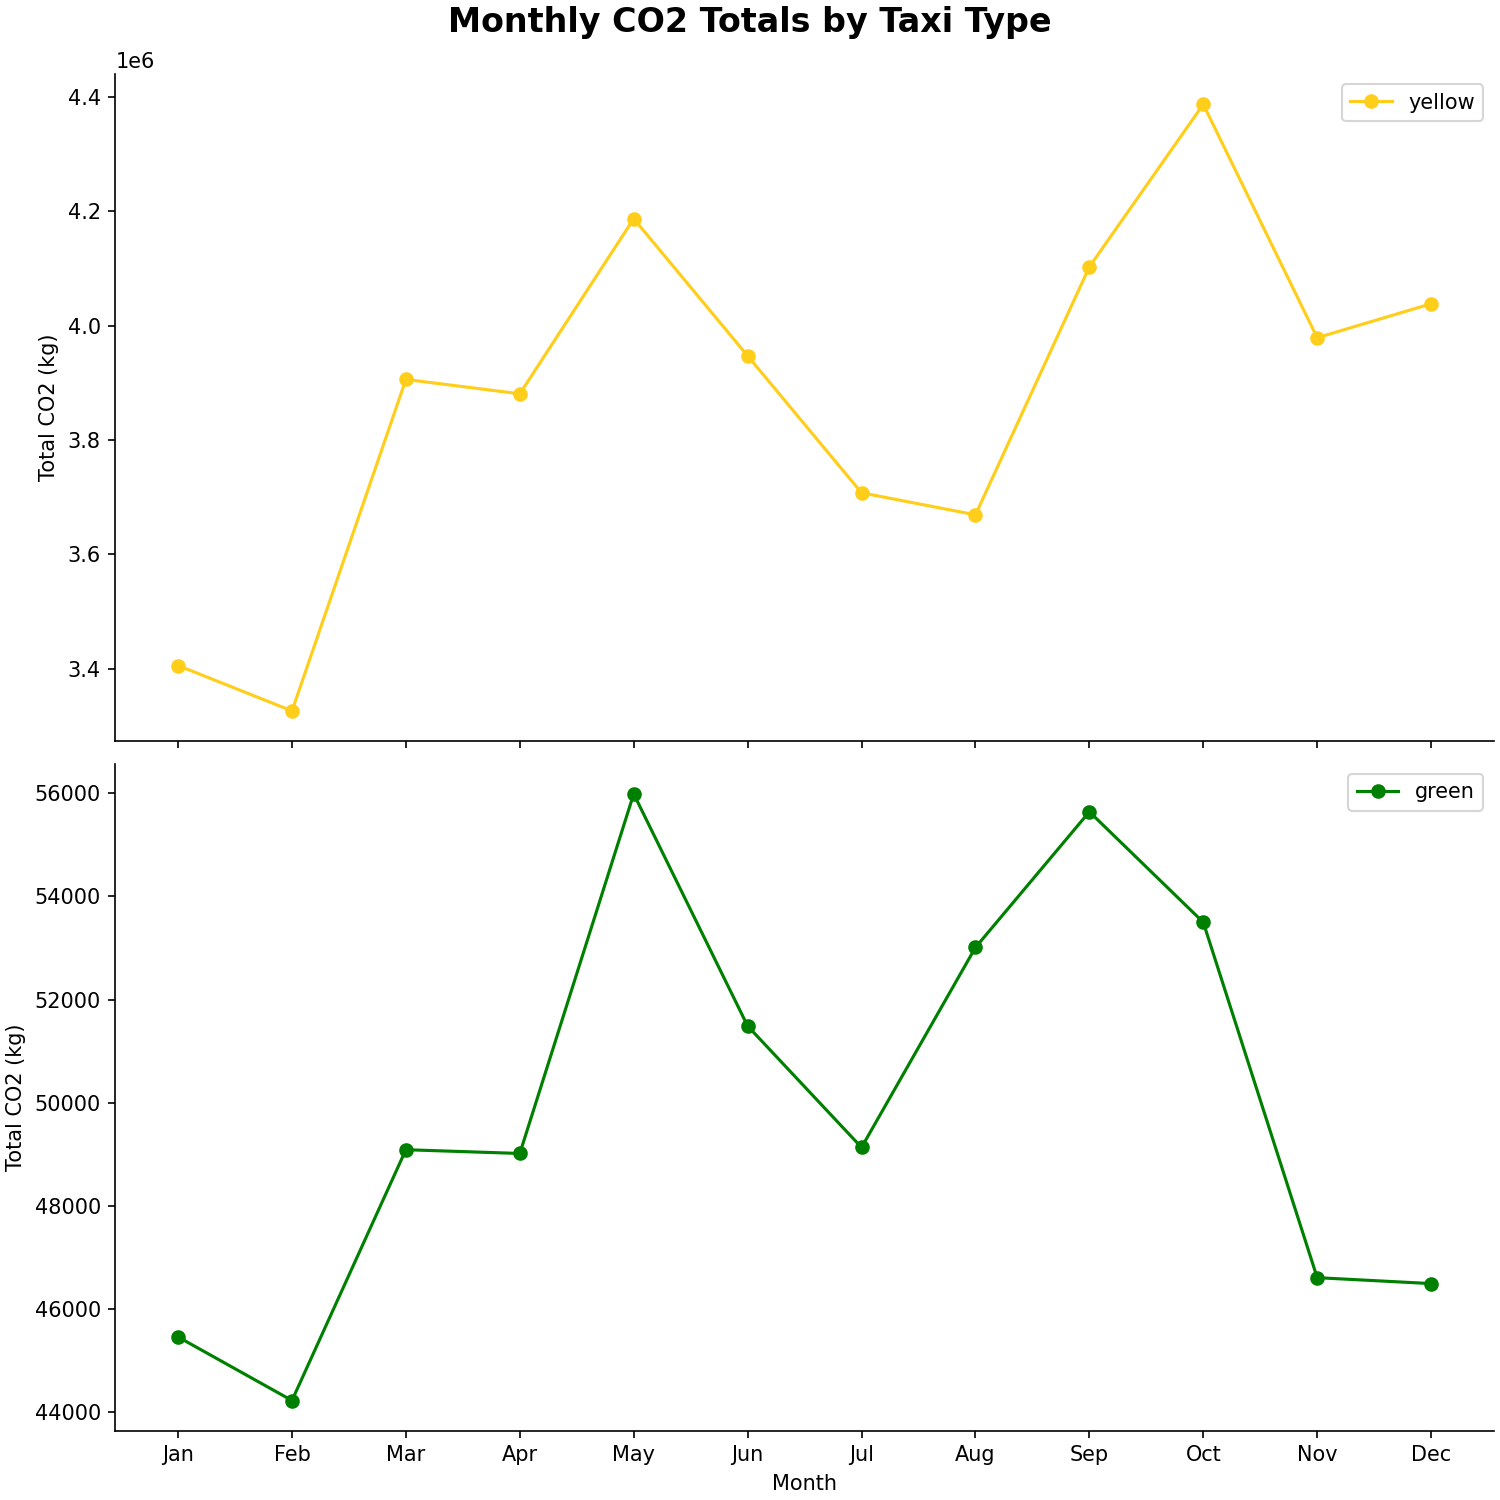
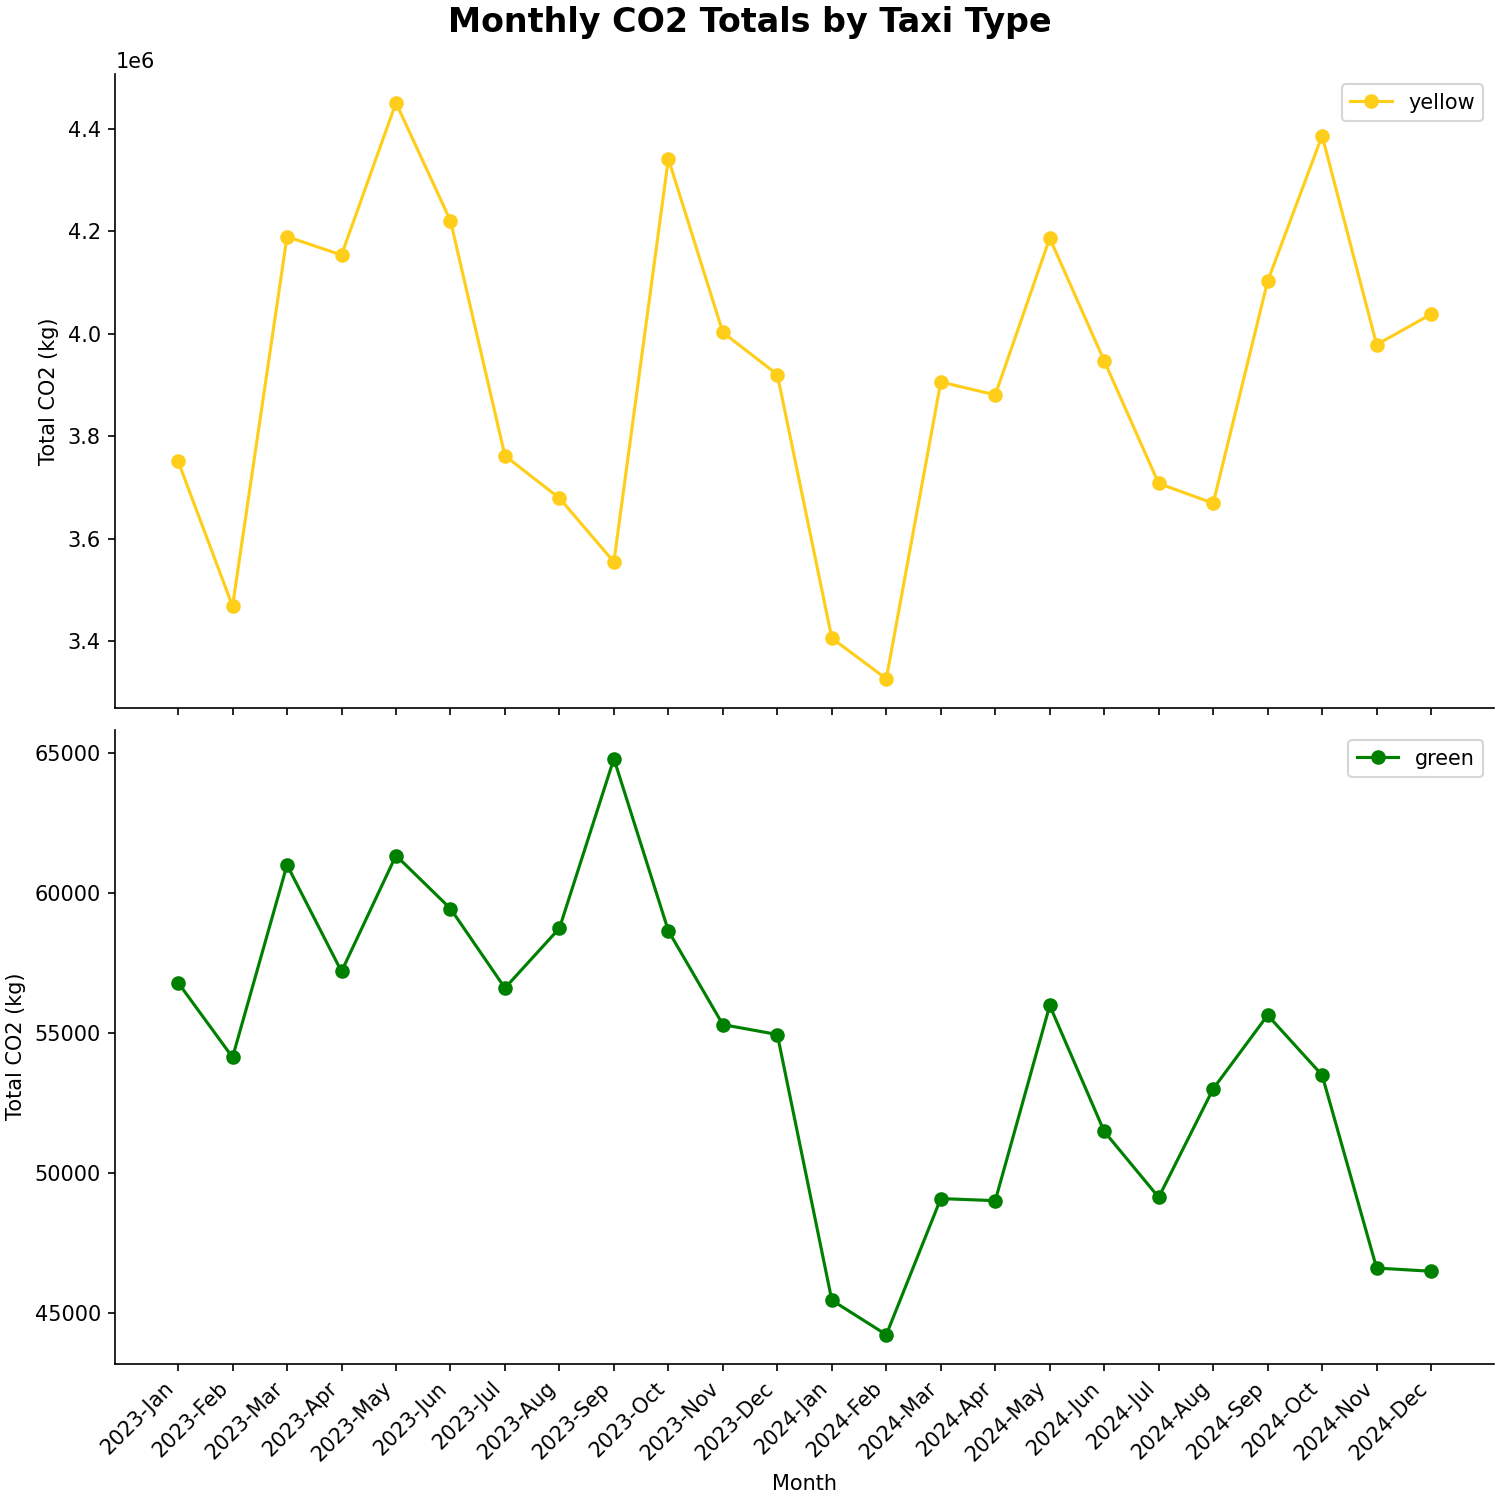
fixed analysis for all 2015-2024 and graph for 2023-2024

diff --git a/analysis.py b/analysis.py
@@ -314,6 +314,7 @@ def carbon_heavy_light_week (years=range(2024, 2025), db_path='./emissions.duckd
                 AND pickup_ts >= TIMESTAMP '{start_year}-01-01'
                 AND pickup_ts <  TIMESTAMP '{end_year}-01-01'
                 AND trip_co2_kgs IS NOT NULL
+                AND week_of_year BETWEEN 1 AND 52
             GROUP BY week_of_year
             ORDER BY week_of_year;
         """).fetchall()
@@ -327,6 +328,7 @@ def carbon_heavy_light_week (years=range(2024, 2025), db_path='./emissions.duckd
                 AND pickup_ts >= TIMESTAMP '{start_year}-01-01'
                 AND pickup_ts <  TIMESTAMP '{end_year}-01-01'
                 AND trip_co2_kgs IS NOT NULL
+                AND week_of_year BETWEEN 1 AND 52
             GROUP BY week_of_year
             ORDER BY week_of_year;
         """).fetchall()
@@ -475,7 +477,131 @@ def carbon_heavy_light_month (years=range(2024, 2025), db_path='./emissions.duck
 
 
 
-def plot_co2_month_by_co2totals(years=range(2024, 2025), db_path='./emissions2024.duckdb'):
+# def plot_co2_month_by_co2totals(years=range(2024, 2025), db_path='./emissions.duckdb'):
+#     con = None
+
+#     try:
+#         start_year = min(years)
+#         end_year = max(years) + 1
+#         con = duckdb.connect(database=db_path, read_only=True)
+#         logger.info(f"Connected to DuckDB for heavy and light carbon months: years={list(years)}")
+
+#         month_totalco2_yellow = con.execute(f"""
+#             SELECT
+#                 trip_year AS yr,
+#                 month_of_year AS mo,
+#                 SUM(trip_co2_kgs) AS total_co2_kgs
+#             FROM data_transformation
+#             WHERE vehicle_type = 'yellow_taxi'
+#                 AND pickup_ts >= TIMESTAMP '{start_year}-01-01'
+#                 AND pickup_ts <  TIMESTAMP '{end_year}-01-01'
+#                 AND trip_co2_kgs IS NOT NULL
+#             GROUP BY yr, mo
+#             ORDER BY yr, mo;
+#         """).fetchall()
+
+#         month_totalco2_green = con.execute(f"""
+#             SELECT
+#                 trip_year AS yr,
+#                 month_of_year AS mo,
+#                 SUM(trip_co2_kgs) AS total_co2_kgs
+#             FROM data_transformation
+#             WHERE vehicle_type = 'green_taxi'
+#                 AND pickup_ts >= TIMESTAMP '{start_year}-01-01'
+#                 AND pickup_ts <  TIMESTAMP '{end_year}-01-01'
+#                 AND trip_co2_kgs IS NOT NULL
+#             GROUP BY yr, mo
+#             ORDER BY yr, mo;
+#         """).fetchall()
+
+
+#         # plotting yellow        
+#         fig, (ax1, ax2) = plt.subplots(2, 1, figsize=(10, 10), dpi=150, sharex=True, constrained_layout=True)
+
+#         month_list_yellow = []
+#         co2_total_list_yellow = []
+#         for each in month_totalco2_yellow:
+#             mo = each[0]
+#             co2 = float(each[1])
+#             month_list_yellow.append(mo)
+#             co2_total_list_yellow.append(co2)
+
+#         months = np.arange(1, 13)
+#         map_yellow= {}
+#         for month in months:
+#             map_yellow[int(month)] = 0.0
+
+#         for i in range(len(month_list_yellow)):
+#             month = int(month_list_yellow[i])
+#             co2 = float(co2_total_list_yellow[i])
+#             map_yellow[month] = co2
+
+#         month_list_yellow = list(months)
+#         co2_total_list_yellow = [map_yellow[m] for m in months]
+
+#         ax1.plot(month_list_yellow, co2_total_list_yellow, marker = 'o', color='#FFCE1B', label='yellow')
+
+#         ax1.spines['top'].set_visible(False)
+#         ax1.spines['right'].set_visible(False)
+#         labels = ['Jan','Feb','Mar','Apr','May','Jun','Jul','Aug','Sep','Oct','Nov','Dec']
+#         # ax1.xlim(1, 12)
+#         ax1.set_xticks(months, labels)
+#         # ax1.set_xlabel('Month')
+#         ax1.set_ylabel('Total CO2 (kg)')
+#         ax1.legend()
+
+
+#         # plotting green
+#         plt.figure(figsize=(10,6), dpi=150)
+        
+#         month_list_green = []
+#         co2_total_list_green = []
+#         for each in month_totalco2_green:
+#             mo = each[0]
+#             co2 = float(each[1])
+#             month_list_green.append(mo)
+#             co2_total_list_green.append(co2)
+
+#         months = np.arange(1, 13)
+#         map_green = {}
+#         for month in months:
+#             map_green[int(month)] = 0.0
+
+#         for i in range(len(month_list_green)):
+#             month = int(month_list_green[i])
+#             co2 = float(co2_total_list_green[i])
+#             map_green[month] = co2
+
+#         month_list_green = list(months)
+#         co2_total_list_green = [map_green[m] for m in months]
+
+#         ax2.plot(month_list_green, co2_total_list_green, marker = 'o', color='#008000', label='green')
+
+#         ax2.spines['top'].set_visible(False)
+#         ax2.spines['right'].set_visible(False)
+#         labels = ['Jan','Feb','Mar','Apr','May','Jun','Jul','Aug','Sep','Oct','Nov','Dec']
+#         # ax2.xlim(1, 12)
+#         ax2.set_xticks(months, labels)
+#         ax2.set_xlabel('Month')
+#         ax2.set_ylabel('Total CO2 (kg)')
+#         ax2.legend()
+
+#         fig.suptitle('Monthly CO2 Totals by Taxi Type', fontsize=16, fontweight='bold')
+#         fig.savefig('./month_co2totals_yellow_green.png', dpi=150)
+#         plt.close(fig)
+
+#     except Exception as e:
+#         print(f"Unable to plot the months and co2 totals={list(years)}: {e}")
+#         logger.error(f"Unable to plot the months and co2 totals={list(years)}: {e}")
+#         return None
+
+#     finally:
+#         if con:
+#             con.close()
+
+
+
+def plot_co2_month_by_co2totals(years=range(2024, 2025), db_path='./emissions.duckdb'):
     con = None
 
     try:
@@ -486,98 +612,72 @@ def plot_co2_month_by_co2totals(years=range(2024, 2025), db_path='./emissions202
 
         month_totalco2_yellow = con.execute(f"""
             SELECT
-                month_of_year AS month,
+                trip_year AS yr,
+                month_of_year AS mo,
                 SUM(trip_co2_kgs) AS total_co2_kgs
             FROM data_transformation
             WHERE vehicle_type = 'yellow_taxi'
                 AND pickup_ts >= TIMESTAMP '{start_year}-01-01'
                 AND pickup_ts <  TIMESTAMP '{end_year}-01-01'
                 AND trip_co2_kgs IS NOT NULL
-            GROUP BY month_of_year
-            ORDER BY month_of_year;
+            GROUP BY yr, mo
+            ORDER BY yr, mo;
         """).fetchall()
 
         month_totalco2_green = con.execute(f"""
             SELECT
-                month_of_year AS month,
+                trip_year AS yr,
+                month_of_year AS mo,
                 SUM(trip_co2_kgs) AS total_co2_kgs
             FROM data_transformation
             WHERE vehicle_type = 'green_taxi'
                 AND pickup_ts >= TIMESTAMP '{start_year}-01-01'
                 AND pickup_ts <  TIMESTAMP '{end_year}-01-01'
                 AND trip_co2_kgs IS NOT NULL
-            GROUP BY month_of_year
-            ORDER BY month_of_year;
+            GROUP BY yr, mo
+            ORDER BY yr, mo;
         """).fetchall()
 
 
         # plotting yellow        
         fig, (ax1, ax2) = plt.subplots(2, 1, figsize=(10, 10), dpi=150, sharex=True, constrained_layout=True)
 
-        month_list_yellow = []
-        co2_total_list_yellow = []
-        for each in month_totalco2_yellow:
-            mo = each[0]
-            co2 = float(each[1])
-            month_list_yellow.append(mo)
-            co2_total_list_yellow.append(co2)
+        years_list = list(range(start_year, end_year))                    # NEW
+        grid = [(yr, mo) for yr in years_list for mo in range(1, 13)]    # NEW
+        abbr = ['Jan','Feb','Mar','Apr','May','Jun','Jul','Aug','Sep','Oct','Nov','Dec']  # NEW
+        x_labels = [f"{yr}-{abbr[mo-1]}" for (yr, mo) in grid]            # NEW
+        x_pos = list(range(len(grid)))                                    # NEW
 
-        months = np.arange(1, 13)
-        map_yellow= {}
-        for month in months:
-            map_yellow[int(month)] = 0.0
+        # === CHANGED: map query rows to the grid (fill 0 for missing months) ===
+        y_dict = {(int(yr), int(mo)): float(val) for (yr, mo, val) in month_totalco2_yellow}  # CHANGED
+        y_series = [y_dict.get(key, 0.0) for key in grid]                                       # CHANGED
 
-        for i in range(len(month_list_yellow)):
-            month = int(month_list_yellow[i])
-            co2 = float(co2_total_list_yellow[i])
-            map_yellow[month] = co2
-
-        month_list_yellow = list(months)
-        co2_total_list_yellow = [map_yellow[m] for m in months]
-
-        ax1.plot(month_list_yellow, co2_total_list_yellow, marker = 'o', color='#FFCE1B', label='yellow')
+        ax1.plot(x_pos, y_series, marker='o', color='#FFCE1B', label='yellow')  # CHANGED
 
         ax1.spines['top'].set_visible(False)
         ax1.spines['right'].set_visible(False)
-        labels = ['Jan','Feb','Mar','Apr','May','Jun','Jul','Aug','Sep','Oct','Nov','Dec']
-        # ax1.xlim(1, 12)
-        ax1.set_xticks(months, labels)
-        # ax1.set_xlabel('Month')
+
+        # === CHANGED: dynamic ticks so many months remain readable ===
+        max_labels = 24                                                     # NEW (show up to ~24 labels)
+        step = max(1, len(x_pos) // max_labels)                             # NEW
+        tick_idx = x_pos[::step]                                            # NEW
+        ax1.set_xticks(tick_idx, [x_labels[i] for i in tick_idx], rotation=45, ha='right')  # CHANGED
+
         ax1.set_ylabel('Total CO2 (kg)')
         ax1.legend()
 
-
         # plotting green
-        plt.figure(figsize=(10,6), dpi=150)
-        
-        month_list_green = []
-        co2_total_list_green = []
-        for each in month_totalco2_green:
-            mo = each[0]
-            co2 = float(each[1])
-            month_list_green.append(mo)
-            co2_total_list_green.append(co2)
+        # plt.figure(figsize=(10,6), dpi=150)  # REMOVED: stray extra figure
 
-        months = np.arange(1, 13)
-        map_green = {}
-        for month in months:
-            map_green[int(month)] = 0.0
+        # === CHANGED: map green to the same grid ===
+        g_dict = {(int(yr), int(mo)): float(val) for (yr, mo, val) in month_totalco2_green}   # CHANGED
+        g_series = [g_dict.get(key, 0.0) for key in grid]                                      # CHANGED
 
-        for i in range(len(month_list_green)):
-            month = int(month_list_green[i])
-            co2 = float(co2_total_list_green[i])
-            map_green[month] = co2
-
-        month_list_green = list(months)
-        co2_total_list_green = [map_green[m] for m in months]
-
-        ax2.plot(month_list_green, co2_total_list_green, marker = 'o', color='#008000', label='green')
+        ax2.plot(x_pos, g_series, marker='o', color='#008000', label='green')  # CHANGED
 
         ax2.spines['top'].set_visible(False)
         ax2.spines['right'].set_visible(False)
-        labels = ['Jan','Feb','Mar','Apr','May','Jun','Jul','Aug','Sep','Oct','Nov','Dec']
-        # ax2.xlim(1, 12)
-        ax2.set_xticks(months, labels)
+        ax2.set_xticks(tick_idx, [x_labels[i] for i in tick_idx], rotation=45, ha='right')     # CHANGED
         ax2.set_xlabel('Month')
         ax2.set_ylabel('Total CO2 (kg)')
         ax2.legend()
@@ -604,14 +704,11 @@ if __name__ == "__main__":
 
     # SINGLE LARGEST CARBON TRIP OF THE YEARS - YELLOW THEN GREEN:
     print("1. Single largest carbon trip of year(s):\n")
-    for year in years:
-        yellow_largest_carbon = single_largest_carbon_trip_year('yellow', years)
-        green_largest_carbon = single_largest_carbon_trip_year('green', years)
-        pretty_print_largest_carbon_trip("yellow", yellow_largest_carbon, years)
-        print("\n")
-        pretty_print_largest_carbon_trip("green", green_largest_carbon, years)
-
-        print("\n")
+    yellow_largest_carbon = single_largest_carbon_trip_year('yellow', years)
+    green_largest_carbon  = single_largest_carbon_trip_year('green',  years)
+    pretty_print_largest_carbon_trip("yellow", yellow_largest_carbon, years)
+    print("\n")
+    pretty_print_largest_carbon_trip("green",  green_largest_carbon,  years)
     print("\n")
 
     # MIN AND MAX CARBON HOURS (AVERAGES) - YELLOW THEN GREEN:
@@ -666,8 +763,8 @@ if __name__ == "__main__":
         yellow_mo_min, yellow_mo_max, green_mo_min, green_mo_max = results_months
         print(f"yellow carbon month min: (month {yellow_mo_min[0]},  {yellow_mo_min[1]:.5f} kg CO2 per trip), \nyellow carbon month max: (month {yellow_mo_max[0]},  {yellow_mo_max[1]:.5f} kg CO2 per trip)\n")
         logger.info(f"yellow carbon month min: (month {yellow_mo_min[0]},  {yellow_mo_min[1]:.5f} kg CO2 per trip), \nyellow carbon month max: (month {yellow_mo_max[0]},  {yellow_mo_max[1]:.5f} kg CO2 per trip)\n")
-        print(f"green carbon month min: (month {green_mo_max[0]},  {green_mo_max[1]:.5f} kg CO2 per trip), \ngreen carbon month max: (month {green_mo_max[0]},  {green_mo_max[1]:.5f} kg CO2 per trip)\n")
-        logger.info(f"green carbon month min: (month {green_mo_max[0]},  {green_mo_max[1]:.5f} kg CO2 per trip), \ngreen carbon month max: (month {green_mo_max[0]},  {green_mo_max[1]:.5f} kg CO2 per trip)\n")
+        print(f"green carbon month min: (month {green_mo_min[0]},  {green_mo_min[1]:.5f} kg CO2 per trip), \ngreen carbon month max: (month {green_mo_max[0]},  {green_mo_max[1]:.5f} kg CO2 per trip)\n")
+        logger.info(f"green carbon month min: (month {green_mo_min[0]},  {green_mo_min[1]:.5f} kg CO2 per trip), \ngreen carbon month max: (month {green_mo_max[0]},  {green_mo_max[1]:.5f} kg CO2 per trip)\n")
     print("\n")
     
     # PLOTTING FOR MONTH BY CO2 (Matplotlib.pyplot)
